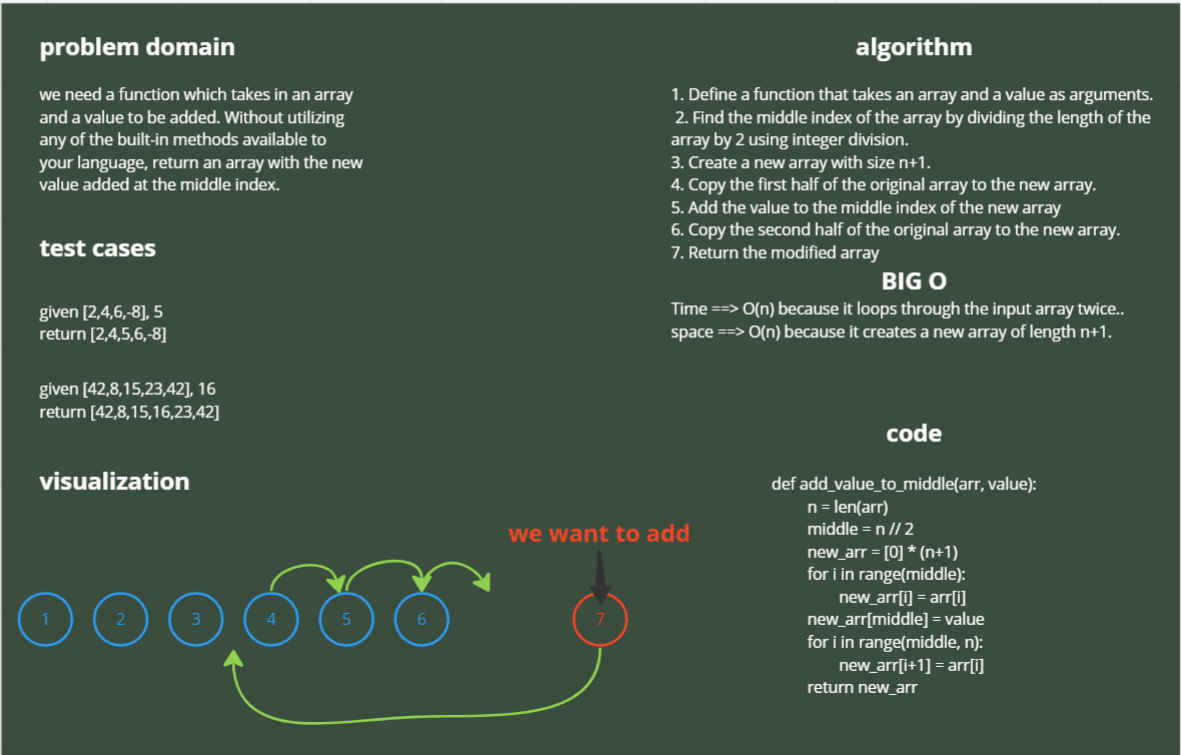
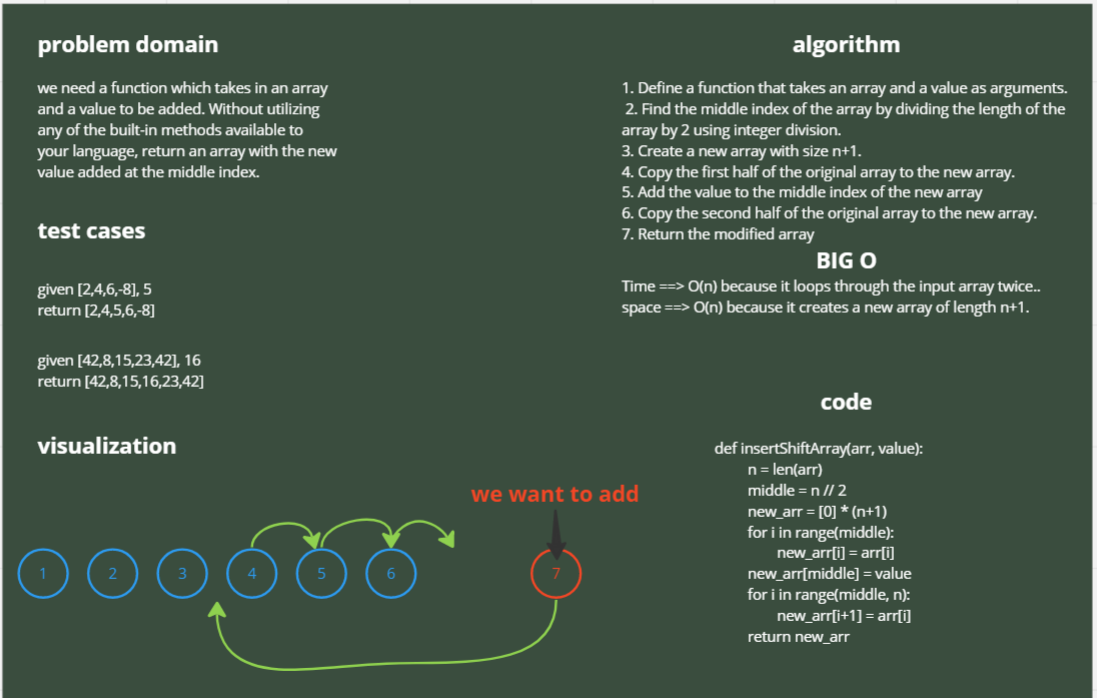
changed the names

diff --git a/array-insert-shift/README.md b/array-insert-shift/README.md
@@ -20,7 +20,7 @@ This function has a time complexity of O(n), where n is the length of the input 
 
 # Solution
 
- def add_value_to_middle(arr, value):
+ def insertShiftArray(arr, value):
 
 .   n = len(arr)
 
@@ -47,7 +47,7 @@ arr = [1, 2, 3, 4, 5]
 
 value = 6
 
-new_arr = add_value_to_middle(arr, value)
+new_arr = insertShiftArray(arr, value)
 
 print(new_arr) 
 

diff --git a/README.md b/README.md
@@ -3,8 +3,8 @@
 
 | Challenges  | link  
 | :---        |    :----:
-|Class 01     | [array-reverse](./challenges/array-reverse.md) 
-|Class 02     | [array-insert-shift](./challenges/array-insert-shift.md) 
+|Class 01     | [array-reverse](./array-reverse/README.md) 
+|Class 02     | [array-insert-shift](./array-insert-shift/README.md) 
 
 
 
